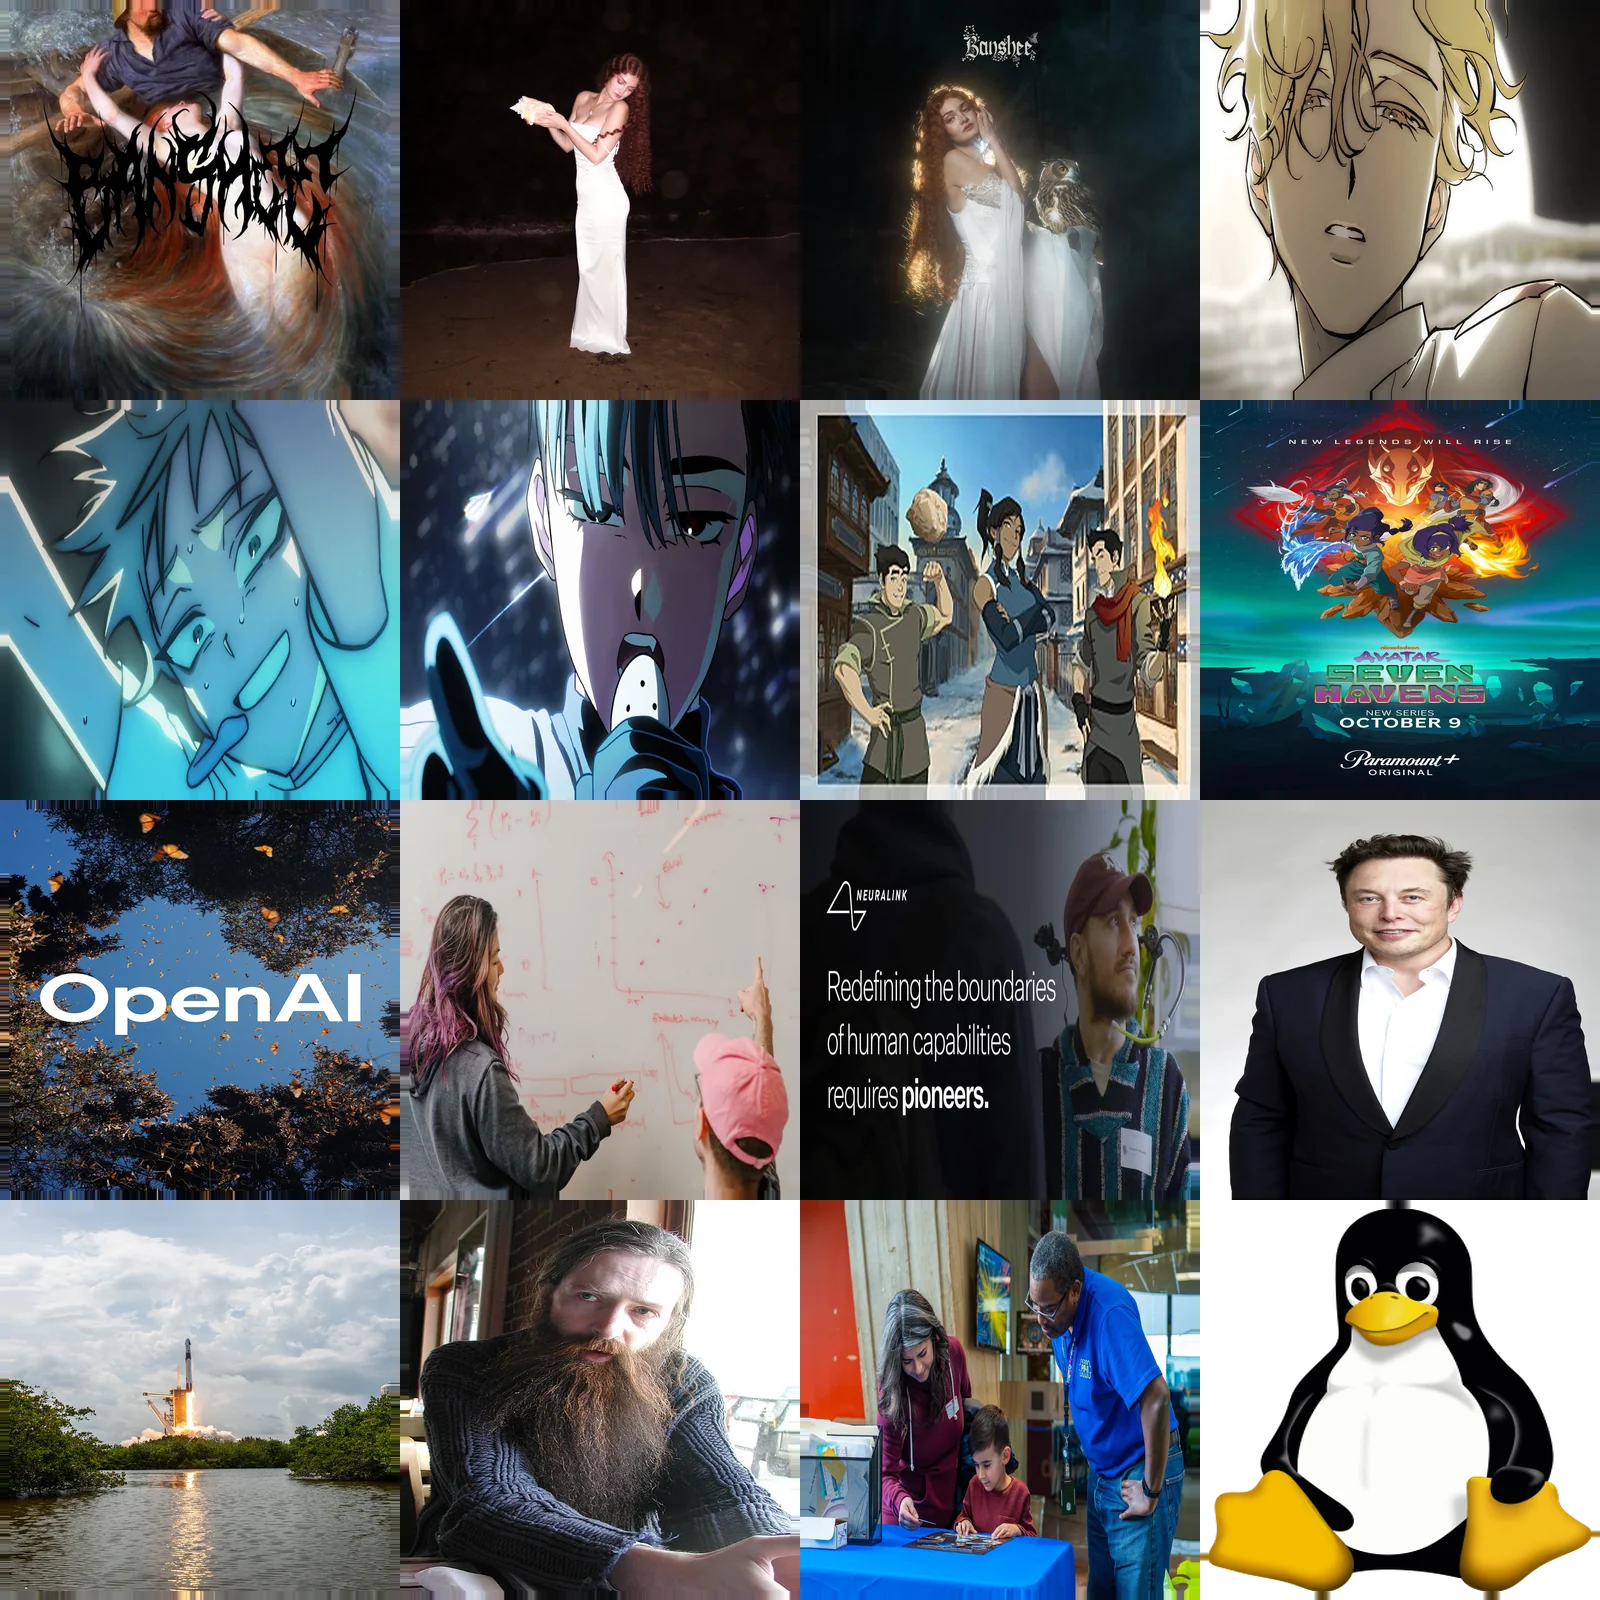
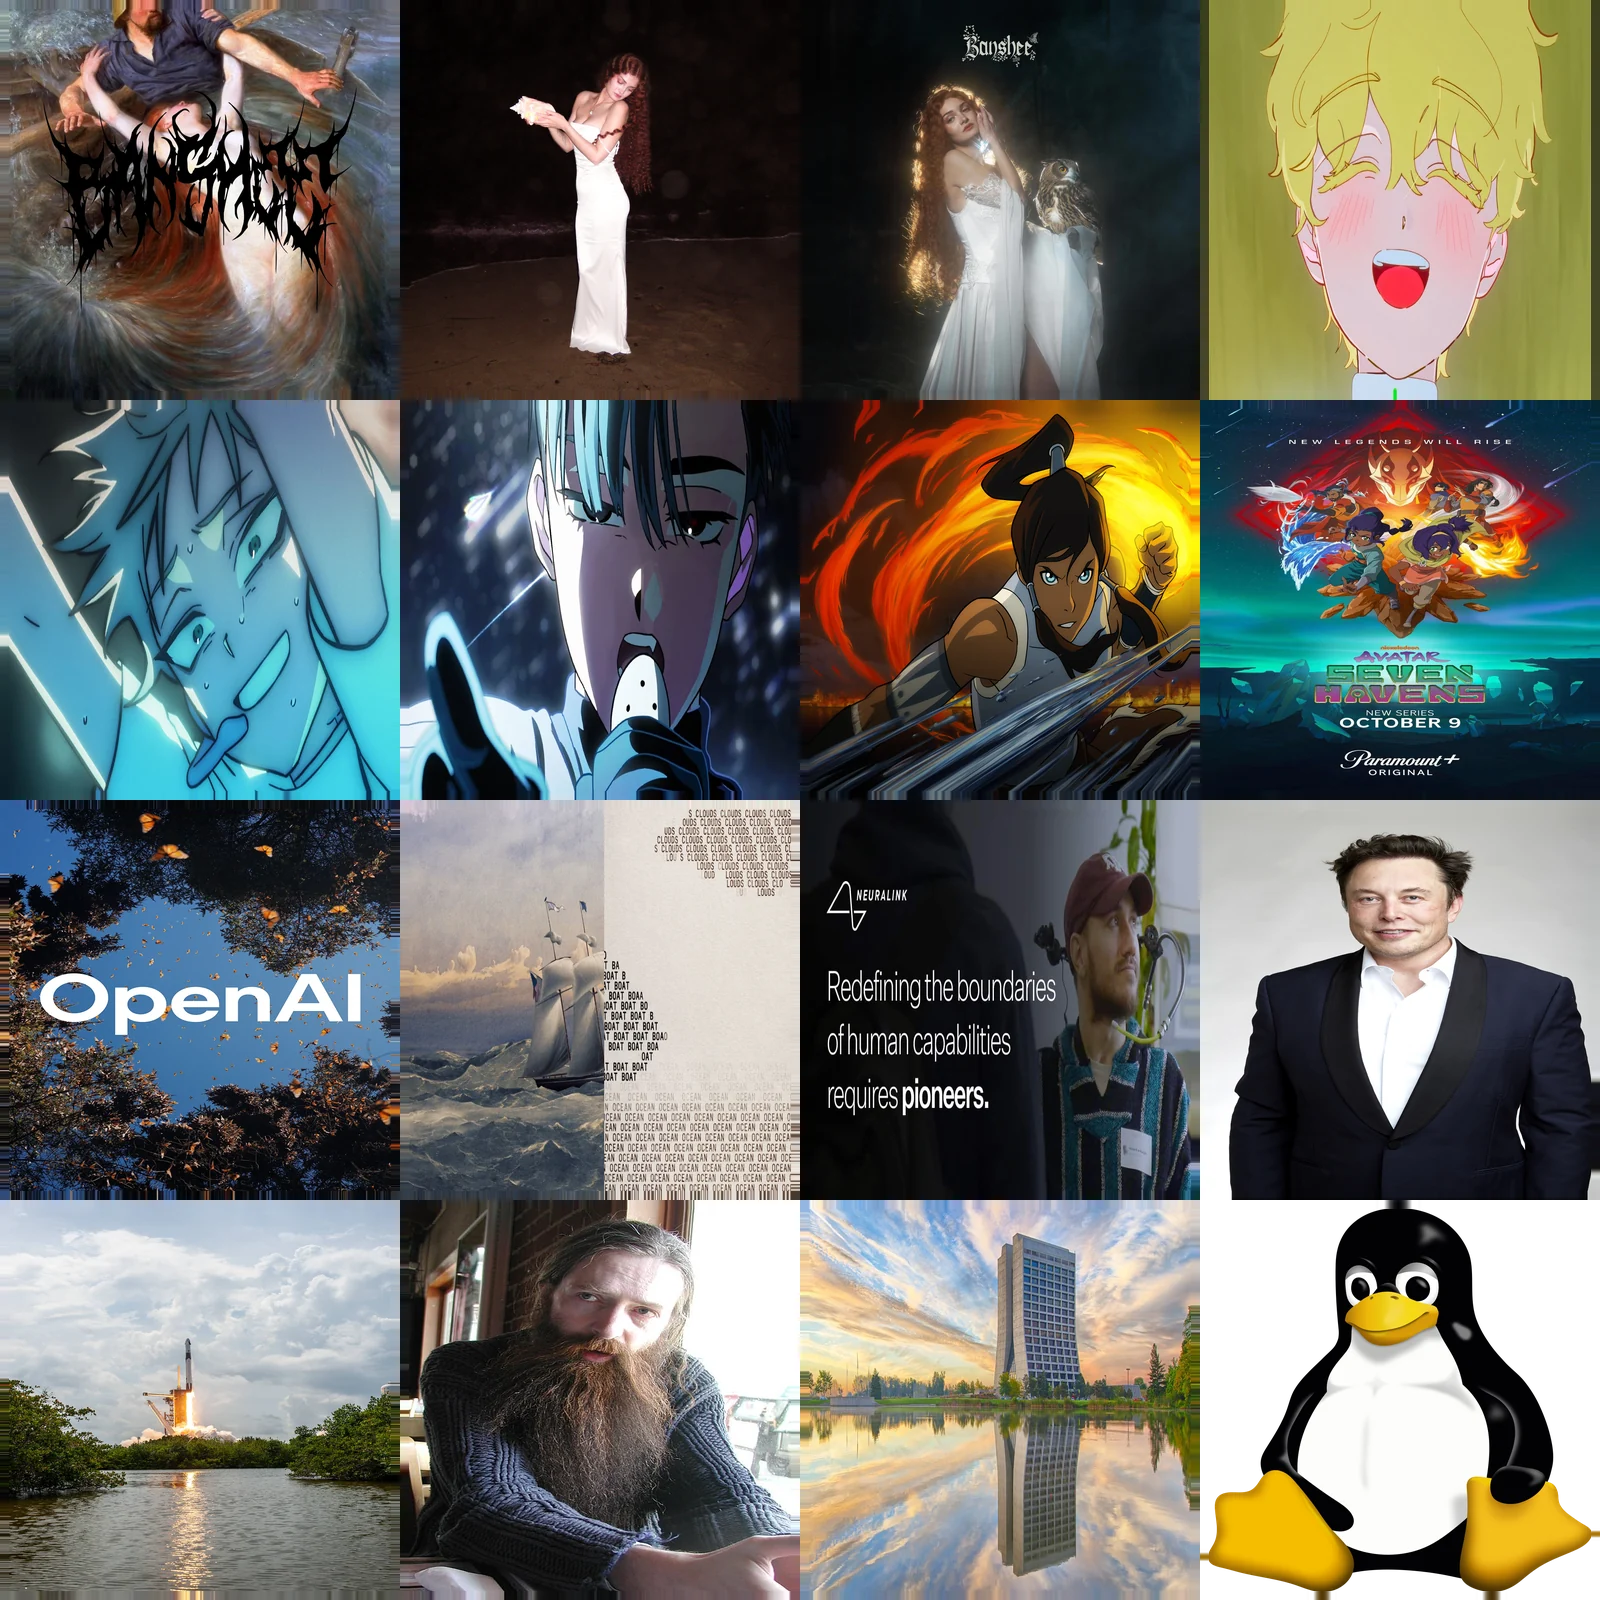
Refresh the wall art and clear the ivy from the shelf

diff --git a/site/desk-room.js b/site/desk-room.js
@@ -8,16 +8,16 @@ const artwork = [
   ['luka', 16/9, -2.09, 1.19, 2.26, .017],
   ['till', 16/9, .38, 1.17, 2.46, -.014],
   ['ivan', 16/9, -2.08, -.18, 2.33, -.017],
-  ['korra', 320/213, .36, -.40, 2.43, .010],
+  ['korra', 2732/2048, .36, -.57, 2.43, .010],
   ['seven-havens', 2/3, 2.89, 1.72, 2.31, -.012],
-  ['openai', 700/982, -2.62, 2.26, 1.55, .015],
-  ['anthropic', 4/3, -.74, 2.83, 1.74, -.019],
-  ['neuralink', 1200/630, -.73, 1.64, 1.76, .008],
-  ['musk', 1666/2500, 2.75, 2.16, 1.73, .036],
-  ['spacex', 1041/1564, .99, 2.27, 1.58, -.011],
-  ['aubrey', 500/695, -2.71, .17, 1.32, -.019],
-  ['fermilab', 2560/1707, -.63, .18, 2.57, .014],
-  ['tux', 300/356, 1.57, 0, 1.43, -.036],
+  ['openai', 700/982, 2.4, 2.31, 1.47, .015],
+  ['anthropic', 16/9, .21, 2.83, 2.62, -.014],
+  ['neuralink', 1200/630, -.22, .15, 1.80, .008],
+  ['musk', 1666/2500, -2.30, 1.88, 2.08, .016],
+  ['spacex', 1041/1564, 2.38, .28, 1.20, -.011],
+  ['aubrey', 500/695, -2.37, -.60, 1.15, -.019],
+  ['fermilab', 1479/688, .22, 1.38, 2.62, .013],
+  ['tux', 300/356, 1.25, -.10, 1.00, -.036],
 ];
 const leafColors = [0x58724a, 0x3b6244, 0x446e4b, 0x638757, 0x81945e];
 const ivyLeaf = new T.BufferGeometry();
@@ -33,7 +33,7 @@ ivyLeaf.computeVertexNormals();
 
 export function decorateRoom(world, { narrow, half, group, box, bead, cylinder, wire, finish, photo, tag, drawn, trim }) {
   const width = narrow ? 6.7 : 7.15;
-  const atlas = photo('/assets/furniture/room-atlas.webp?v=2');
+  const atlas = photo('/assets/furniture/room-atlas.webp?v=3');
   const ink = new T.MeshStandardMaterial({ map: atlas, roughness: .93, alphaTest: .28 });
   const cutout = ink.clone();
   cutout.side = T.DoubleSide;
@@ -78,12 +78,12 @@ export function decorateRoom(world, { narrow, half, group, box, bead, cylinder, 
     branch.add(blade);
   }
 
-  function vine(parent, x, y, z, length, phase) {
+  function vine(parent, x, y, z, length, phase, lead = []) {
     const branch = group(parent, x, y, z);
     const points = Array.from({ length: 15 }, (_, i) => [
       Math.sin(i * .62 + phase) * .20 + i * .010, -i * length / 14, Math.sin(i * .39) * .056,
     ]);
-    wire(branch, points, .014, stem).castShadow = false;
+    wire(branch, [...lead, ...points], .014, stem).castShadow = false;
     points.slice(1).forEach((point, i) => {
       leaf(branch, point, .70 + .25 * Math.sin(i * 1.4 + phase), (i % 2 ? -1 : 1) * (1.18 + .25 * Math.sin(i)), i);
     });
@@ -138,9 +138,11 @@ export function decorateRoom(world, { narrow, half, group, box, bead, cylinder, 
 
   // Smaller vines on the end of the hutch connect it to the rest of the room.
   for (const side of [-1, 1]) {
-    const pot = group(world, side * (half - .25), 3.19, -1.78);
+    const pot = group(world, side * (half - .25), 3.25, -1.78);
     cylinder(pot, .17, .132, .23, finish(0xa86f52), 0, .12, 0, 20);
     cylinder(pot, .155, .155, .003, finish(0x5e4c38), 0, .239, 0, 20);
-    vine(world, side * (half - .22), 3.41, -1.67, narrow ? .92 : 1.45, side + 1.4);
+    // The stem clears the top and rolls over the front edge before it drops.
+    vine(world, side * (half - .22), 3.41, -1.01, narrow ? .92 : 1.45, side + 1.4,
+      [[-side * .03, .081, -.75], [0, .157, -.57], [0, .119, -.22]]);
   }
 }

diff --git a/site/desk-model.js b/site/desk-model.js
@@ -5,7 +5,7 @@ import { lampProjection } from './desk-lamp.js?v=1';
 import { paintScope, followProbe } from './desk-scope.js?v=1';
 import { airframeGeometry, wingUnderside } from './model-plane.js?v=2';
 import { mergeGeometries } from './vendor/three/BufferGeometryUtils.js';
-import { decorateRoom } from './desk-room.js?v=2';
+import { decorateRoom } from './desk-room.js?v=3';
 import { RoundedBoxGeometry } from './vendor/three/RoundedBoxGeometry.js';
 
 export function furnish(scene, narrow, repaint, software=false) {

diff --git a/site/assets/furniture/room-sources.md b/site/assets/furniture/room-sources.md
@@ -1,22 +1,22 @@
 # Desk room poster sources
 
-The room atlas contains reproductions of publicly published art and photographs. Pick up a print to rotate it, then select the print in hand to open its source.
+The room atlas contains reproductions of publicly published art and photographs. Individual prints in `posters/` are loaded on pickup for a closer look. Select the print in hand to open its source.
 
 - [Banshee, Fairy Metal](https://music.apple.com/us/album/fairy-metal-single/1621034850)
-- [Banshee, SIRENCORE](https://open.spotify.com/album/4x7Lhq0tk6h8G7bazJcPsl)
-- [Banshee, FABLES](https://open.spotify.com/album/6oHz1CC0PuNSGgRzAOZowX)
-- [Alien Stage, Luka](https://www.youtube.com/watch?v=VgPo3q01kbg)
+- [Banshee, SIRENCORE](https://music.apple.com/us/album/sirencore/1731271714)
+- [Banshee, FABLES](https://music.apple.com/us/album/fables/1783404103)
+- [Alien Stage, Luka in wiege](https://www.youtube.com/watch?v=rrngM9DmDfk), VIVINOS and Studio LICO
 - [Alien Stage, Till](https://www.youtube.com/watch?v=BEEp4WBaD7w)
 - [Alien Stage, Ivan](https://www.youtube.com/watch?v=2cFnfD4iZzM)
-- [The Legend of Korra](https://www.paramountpressexpress.com/nickelodeon/shows/the-legend-of-korra)
+- [The Legend of Korra](https://paramountglobalcontent.com/title/legend-of-korra-the), Nickelodeon artwork from Paramount Global Content
 - [Avatar: Seven Havens](https://thedirect.com/article/avatar-seven-havens-villain-first-look), Nickelodeon and Paramount+ key art
 - [OpenAI brand gallery](https://openai.com/brand/)
-- [Anthropic company photograph](https://www.anthropic.com/company)
+- [A global workspace in language models](https://www.anthropic.com/research/global-workspace), Anthropic research cover illustration
 - [Neuralink](https://neuralink.com/)
 - [Elon Musk at the Royal Society](https://commons.wikimedia.org/wiki/File:Elon_Musk_Royal_Society.jpg), Duncan Hull and the Royal Society, [CC BY-SA 3.0](https://creativecommons.org/licenses/by-sa/3.0/)
 - [SpaceX Demo-2 launch](https://www.nasa.gov/image-article/spacex-demo-2-liftoff/), NASA
 - [Aubrey de Grey](https://commons.wikimedia.org/wiki/File:Aubrey_de_Grey.jpg)
-- [Fermilab open house](https://news.fnal.gov/2024/01/fermilabs-wilson-hall-open-to-the-public/)
+- [Fermilab, Wilson Hall at sunset](https://lss.fnal.gov/archive/2023/slides/fermilab-slides-23-333-csaid.pdf), cropped from the cover photo in the Fermilab slide archive
 - [Tux, the Linux penguin](https://commons.wikimedia.org/wiki/File:Tux.svg), drawn by Larry Ewing with The GIMP, with vector work by Simon Budig and Garrett LeSage
 
 The project prints on the corkboard are separate illustrations for the site.
